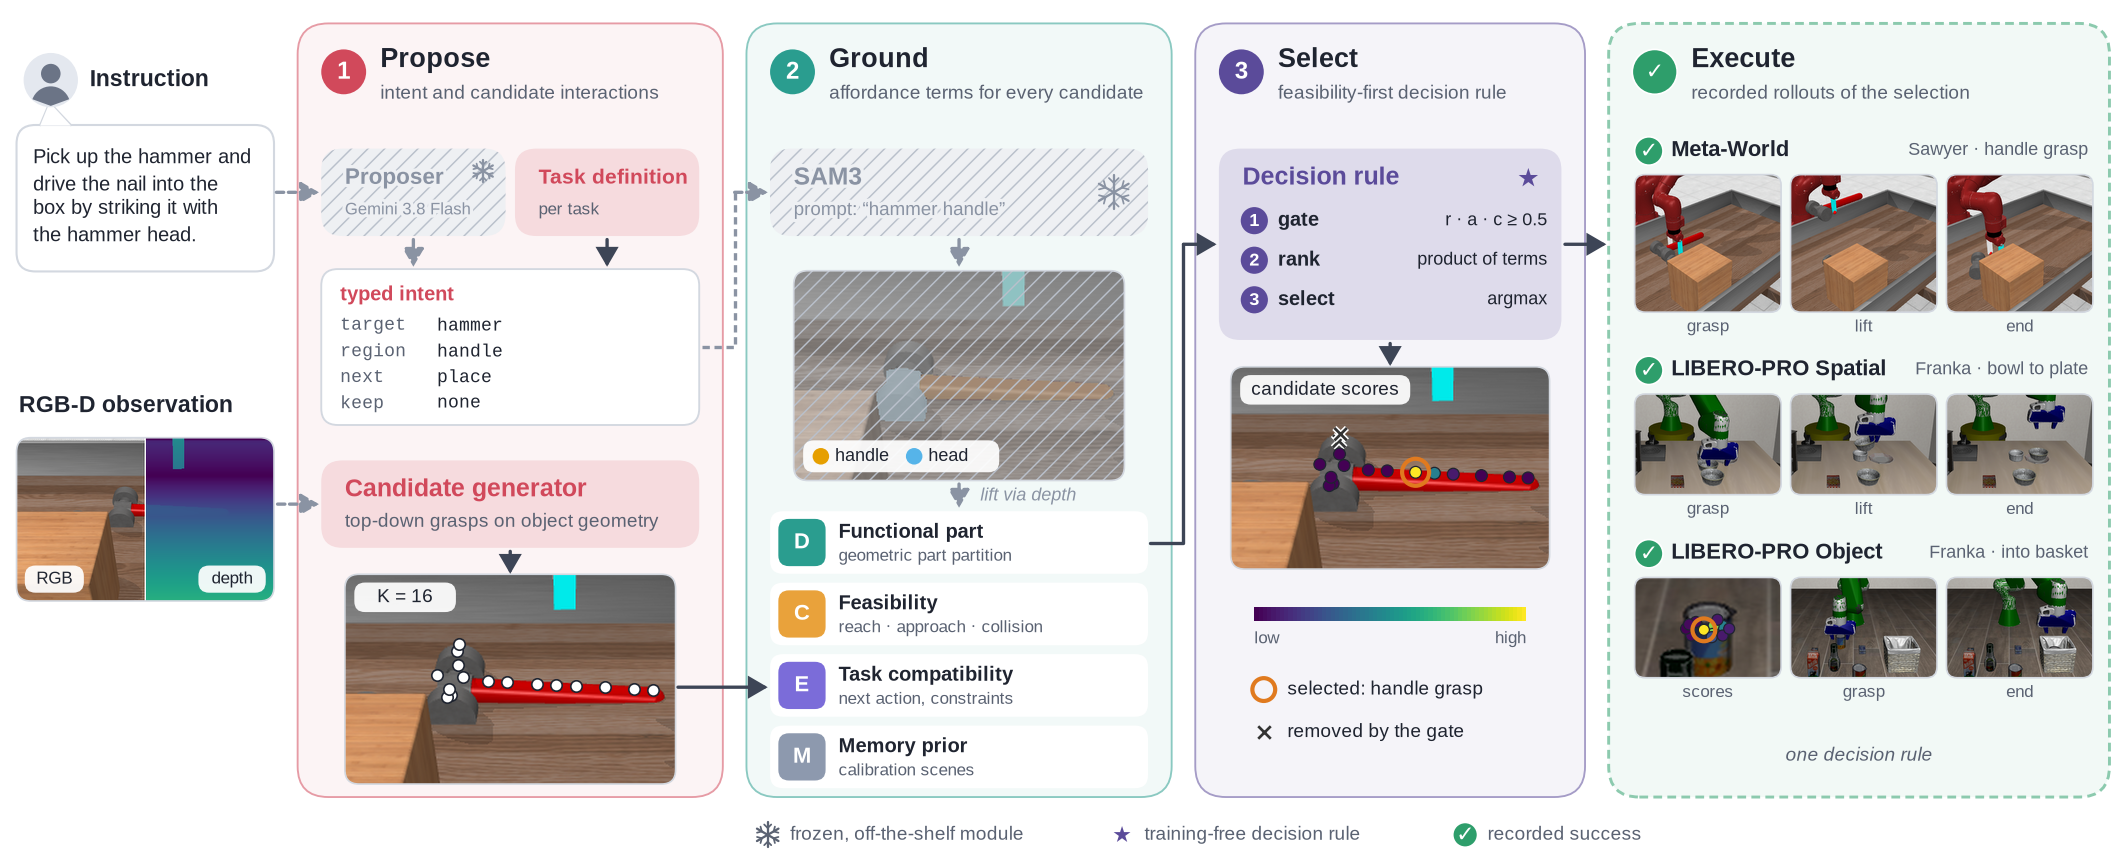
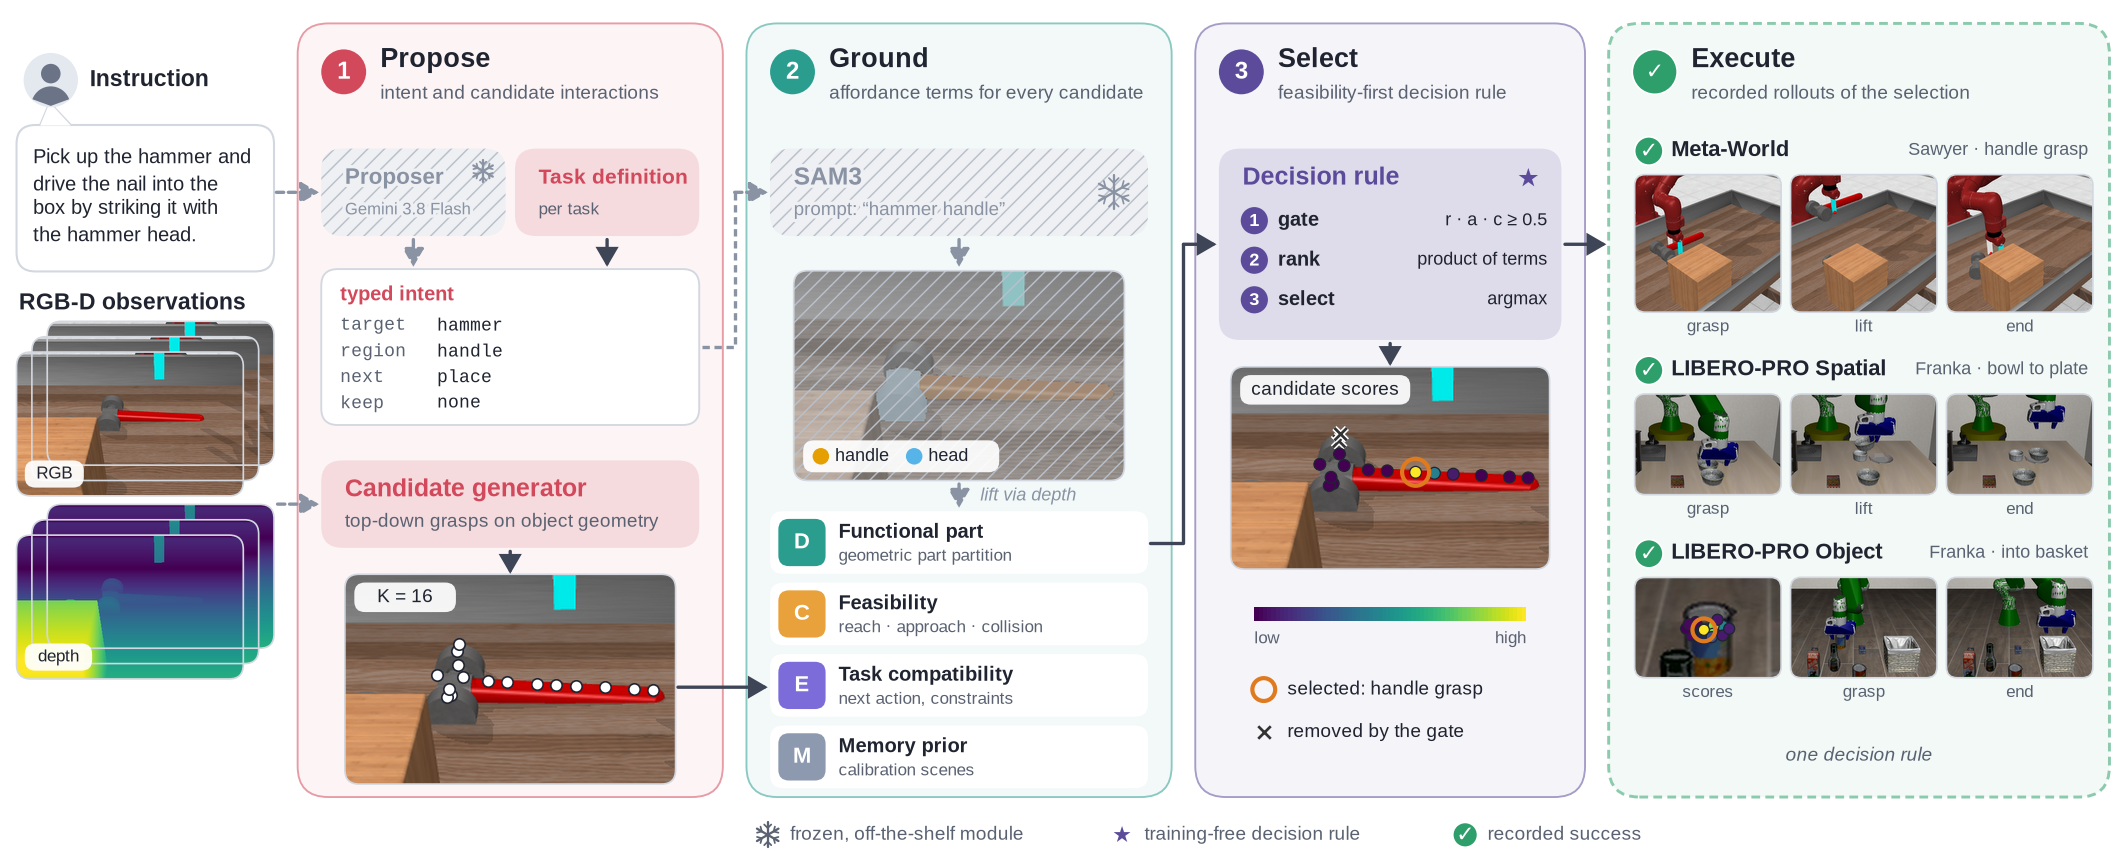
docs: framework figure with stacked RGB-D observations
Updates the framework image and its alt texts to the RGB and depth stacks of the
same task.

Changed region(s): [[0.0, 0.3318, 0.1553, 0.8144]]

diff --git a/index.html b/index.html
@@ -18,7 +18,7 @@
   <meta property="og:description" content="Remove what the arm cannot execute, then rank by function and task. Counterfactual evaluation on identical candidate sets, pilot results with nulls, rollout videos.">
   <meta property="og:url" content="https://physical-agi.github.io/AFFORD-X/">
   <meta property="og:image" content="https://physical-agi.github.io/AFFORD-X/static/images/method_framework.png">
-  <meta property="og:image:alt" content="The AFFORD-X framework drawn on one pilot scene: instruction and RGB-D observation, task-definition intent and candidate generator, geometric part terms, feasibility-first selection and successful rollout keyframes; the Gemini proposer and SAM3 grounding are drawn hatched as implemented but in no reported result">
+  <meta property="og:image:alt" content="The AFFORD-X framework drawn on one pilot scene: instruction and RGB-D observations of the same task, task-definition intent and candidate generator, geometric part terms, feasibility-first selection and successful rollout keyframes; the Gemini proposer and SAM3 grounding are drawn hatched as implemented but in no reported result">
   <meta property="article:section" content="Robotics">
   <meta property="article:tag" content="robot manipulation">
   <meta property="article:tag" content="affordance">
@@ -182,7 +182,7 @@
       <div class="hero-body">
         <figure class="ai-figure" style="margin-top:0">
           <img src="static/images/method_framework.png" class="ai-zoomable"
-               alt="The AFFORD-X framework on the Meta-World hammer scene: a language instruction and one RGB-D observation; solid components are in the reported configuration (task-definition intent, top-down grasp candidates on object geometry, geometric part partition, feasibility-first rule), hatched grey components (Gemini proposer, SAM3 grounding) are implemented but in no reported result; and recorded successful executions on Meta-World and LIBERO-PRO Spatial and Object">
+               alt="The AFFORD-X framework on the Meta-World hammer scene: a language instruction and stacked RGB-D observations of the same task; solid components are in the reported configuration (task-definition intent, top-down grasp candidates on object geometry, geometric part partition, feasibility-first rule), hatched grey components (Gemini proposer, SAM3 grounding) are implemented but in no reported result; and recorded successful executions on Meta-World and LIBERO-PRO Spatial and Object">
           <figcaption>
             <strong>AFFORD-X on one pilot scene</strong> (Meta-World hammer, seed 0), scored with the reported
             configuration. <strong>Solid</strong> components are in every reported result: the intent comes from the task
